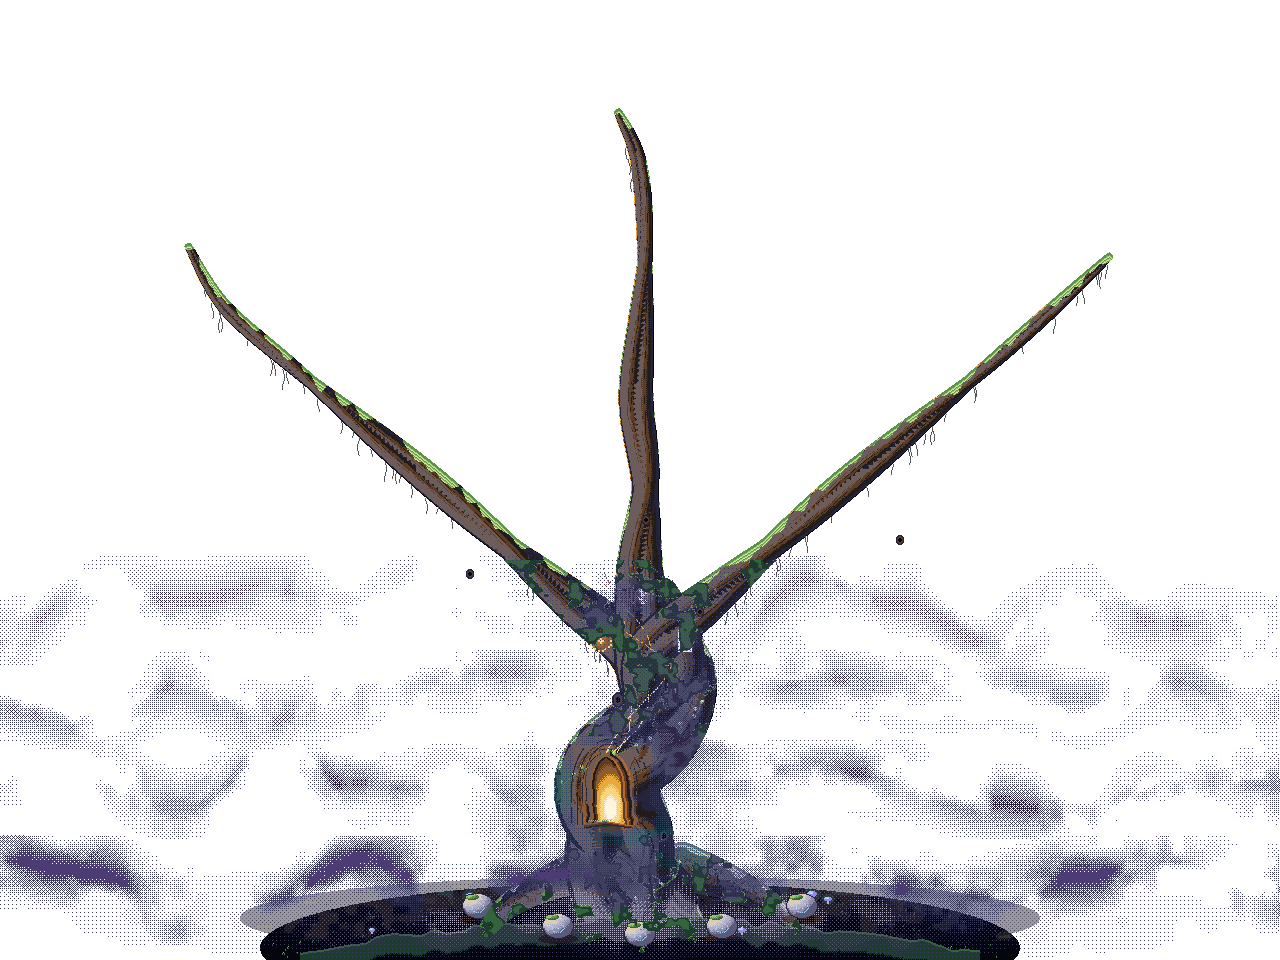
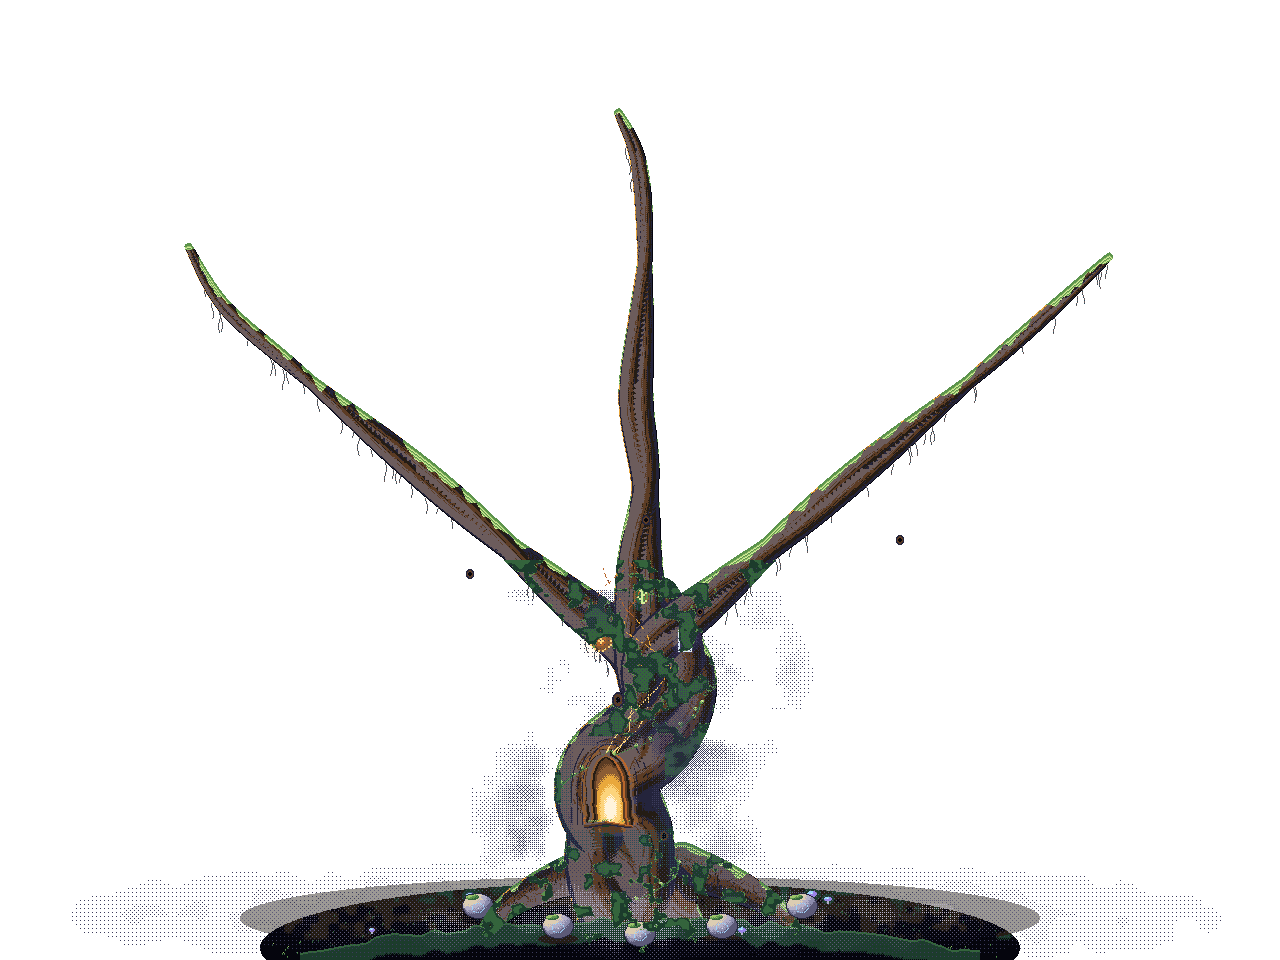
Grove art for the living Grove: drifting mist strips and the Hollow's light point
Three seamless 1280-wide violet mist strips (grove_mist_0..2.png, heights 110/110/120, y 610/715/820, speeds 5/-8/12 art px/s) listed in grove_layout.json 'mists', replacing the four static mist bands baked into grove_tree.png; 'hollow': [608, 792] for the pulsing glow. The crown-underside wisp and the mist on the trunk stay baked.

diff --git a/Project_T/tools/meta_art/grove_gen.html b/Project_T/tools/meta_art/grove_gen.html
@@ -746,7 +746,7 @@ function groveTree() {
     const d = band * clamp((n - .36) * 2.6, 0, 1);
     if (d > 0 && bay(x, y) < d * dens) out.set(x, y, d > .75 ? (y > 850 ? HW.Bruise : HW.Shade) : HW.Dusk);  // muted dream mist, violet only in the thick low cores
   } };
-  wisps(610, 55, .35, 113); wisps(700, 50, .5, 114); wisps(790, 50, .7, 111); wisps(890, 55, 1.1, 112);  // thicker toward the ground
+  // The drifting mist bands are separate strips now (groveMistStrip, animated by GroveTreeView).
   // Mist curling across the trunk itself (a little denser than the haze round it), the Hollow clear.
   for (let y = 590; y < 900; y++) for (let x = 470; x < 820; x++) {
     if (x > 572 && x < 652 && y > 745 && y < 832) continue;
@@ -1327,6 +1327,28 @@ function segment(n) {
   }
   return { frames, box, W, H };
 }
+
+// ---- drifting mist strips (grove_layout.json "mists"; GroveTreeView tiles and scrolls them) ----
+// Seamless horizontally over the 1280 px width (the noise wraps), soft top and bottom. Muted violet
+// dream mist: Dusk, Shade in the thicker parts, Bruise only in the densest cores near the ground.
+const GROVE_MISTS = [
+  { file: "grove_mist_0.png", y: 610, h: 110, dens: .45, speed: 5, seed: 141 },
+  { file: "grove_mist_1.png", y: 715, h: 110, dens: .65, speed: -8, seed: 142 },
+  { file: "grove_mist_2.png", y: 820, h: 120, dens: .95, speed: 12, seed: 143 },
+];
+function groveMistStrip(m) {
+  const out = new Img(GW, m.h), deep = m.dens > .8;
+  for (let y = 0; y < m.h; y++) for (let x = 0; x < GW; x++) {
+    const wob = (pnoise(x, 0, 80, m.seed + 2, 16) - .5) * m.h * .5;
+    const band = clamp(1 - Math.abs(y - m.h / 2 - wob) / (m.h * .42), 0, 1) ** 1.5;
+    const n = pnoise(x, y, 40, m.seed, 32) * .75 + pnoise(x, y, 16, m.seed + 1, 80) * .25;
+    const d = band * clamp((n - .36) * 2.6, 0, 1);
+    if (d > 0 && bay(x, y) < d * m.dens) out.set(x, y, d > .75 ? (deep ? HW.Bruise : HW.Shade) : d > .45 ? HW.Shade : HW.Dusk);
+  }
+  return out;
+}
+// The centre of the Hollow's light (GroveTreeView pulses a warm glow here).
+const HOLLOW_LIGHT = [608, 792];
 
 // ---- flowers and buds ----
 // A petal from (cx, cy) along angle a: an ellipse from the centre out to `len`, lit on its upper side.
@@ -1909,7 +1931,7 @@ emitImg("grove/grove_sky.png", sky);
 emitImg("grove/grove_tree.png", tree);
 spreadNodes(canopies[0]);
 FRUIT_SPOTS.forEach(s => { s[1] = maskBottom(s[0]) - 8; });
-const layout = { size: [GW, GH], nodes: [], fruit_spots: FRUIT_SPOTS, loadout_stones: [...LOADOUT_STONES, SECRET_STONE], moon: MOON, node_cell: 32, legendary_cell: 48, fruit_cell: 48 };
+const layout = { size: [GW, GH], nodes: [], fruit_spots: FRUIT_SPOTS, loadout_stones: [...LOADOUT_STONES, SECRET_STONE], moon: MOON, hollow: HOLLOW_LIGHT, mists: GROVE_MISTS.map(({ file, y, speed }) => ({ file, y, speed })), node_cell: 32, legendary_cell: 48, fruit_cell: 48 };
 const segs = {};
 for (const n of NODES) {
   const s = segment(n); segs[n.id] = s;
@@ -1917,6 +1939,7 @@ for (const n of NODES) {
   layout.nodes.push({ id: n.id, section: n.section, name: n.name, pos: [n.x, n.y], parent: n.parent || null, from: n.from || null,
     levels: n.lv || 1, start: !!n.start, legendary: !!n.legendary, ...(MEMORY_WARDENS.includes(n.id) ? { memory_row: MEMORY_WARDENS.indexOf(n.id) } : {}), branch: { offset: [s.box[0], s.box[1]], frame_size: [s.W, s.H], frames: 5 } });
 }
+GROVE_MISTS.forEach(m => emitImg("grove/" + m.file, groveMistStrip(m)));
 emitText("grove/grove_layout.json", JSON.stringify(layout, null, 1));
 emitImg("grove/grove_nodes.png", stack(["perks", "families", "cards"].map(s => nodeRow(s, false))));
 emitImg("grove/grove_legendary.png", nodeRow("cards", true));
@@ -1981,7 +2004,7 @@ emitImg("icons/card_bundle_icons.png", strip(CARD_ORDER.map(cardIcon)));
 for (let i = 0; i < 10; i++) emitImg("memories/memory_" + String(i + 1).padStart(2, "0") + ".png", memory(i));
 
 // Preview: the tree part-grown, with every node state on show.
-const prev = new Img(GW, GH); prev.put(sky); prev.put(tree); prev.put(canopies[2]);
+const prev = new Img(GW, GH); prev.put(sky); prev.put(tree); prev.put(canopies[2]); GROVE_MISTS.forEach(m => prev.put(snapToPalette(groveMistStrip(m)), 0, m.y));
 const owned = new Set(); NODES.forEach((n, i) => { if (n.start || (i % 3 !== 2 && n.depth < 3)) owned.add(n.id); });
 const sheetCell = (sec, big, col) => nodeSprite(sec, col === 0 ? "locked" : col < 5 ? "afford" : col < 9 ? "open" : "bloom", col === 0 ? 0 : col < 5 ? col - 1 : col < 9 ? col - 5 : col - 9, big);
 for (const n of NODES) { const s = segs[n.id]; prev.put(s.frames[owned.has(n.id) ? 4 : 0], s.box[0], s.box[1]); }

diff --git a/Project_T/tools/meta_art/grove_export.js b/Project_T/tools/meta_art/grove_export.js
@@ -64,7 +64,7 @@ emitImg("grove/grove_sky.png", sky);
 emitImg("grove/grove_tree.png", tree);
 spreadNodes(canopies[0]);
 FRUIT_SPOTS.forEach(s => { s[1] = maskBottom(s[0]) - 8; });
-const layout = { size: [GW, GH], nodes: [], fruit_spots: FRUIT_SPOTS, loadout_stones: [...LOADOUT_STONES, SECRET_STONE], moon: MOON, node_cell: 32, legendary_cell: 48, fruit_cell: 48 };
+const layout = { size: [GW, GH], nodes: [], fruit_spots: FRUIT_SPOTS, loadout_stones: [...LOADOUT_STONES, SECRET_STONE], moon: MOON, hollow: HOLLOW_LIGHT, mists: GROVE_MISTS.map(({ file, y, speed }) => ({ file, y, speed })), node_cell: 32, legendary_cell: 48, fruit_cell: 48 };
 const segs = {};
 for (const n of NODES) {
   const s = segment(n); segs[n.id] = s;
@@ -72,6 +72,7 @@ for (const n of NODES) {
   layout.nodes.push({ id: n.id, section: n.section, name: n.name, pos: [n.x, n.y], parent: n.parent || null, from: n.from || null,
     levels: n.lv || 1, start: !!n.start, legendary: !!n.legendary, ...(MEMORY_WARDENS.includes(n.id) ? { memory_row: MEMORY_WARDENS.indexOf(n.id) } : {}), branch: { offset: [s.box[0], s.box[1]], frame_size: [s.W, s.H], frames: 5 } });
 }
+GROVE_MISTS.forEach(m => emitImg("grove/" + m.file, groveMistStrip(m)));
 emitText("grove/grove_layout.json", JSON.stringify(layout, null, 1));
 emitImg("grove/grove_nodes.png", stack(["perks", "families", "cards"].map(s => nodeRow(s, false))));
 emitImg("grove/grove_legendary.png", nodeRow("cards", true));
@@ -136,7 +137,7 @@ emitImg("icons/card_bundle_icons.png", strip(CARD_ORDER.map(cardIcon)));
 for (let i = 0; i < 10; i++) emitImg("memories/memory_" + String(i + 1).padStart(2, "0") + ".png", memory(i));
 
 // Preview: the tree part-grown, with every node state on show.
-const prev = new Img(GW, GH); prev.put(sky); prev.put(tree); prev.put(canopies[2]);
+const prev = new Img(GW, GH); prev.put(sky); prev.put(tree); prev.put(canopies[2]); GROVE_MISTS.forEach(m => prev.put(snapToPalette(groveMistStrip(m)), 0, m.y));
 const owned = new Set(); NODES.forEach((n, i) => { if (n.start || (i % 3 !== 2 && n.depth < 3)) owned.add(n.id); });
 const sheetCell = (sec, big, col) => nodeSprite(sec, col === 0 ? "locked" : col < 5 ? "afford" : col < 9 ? "open" : "bloom", col === 0 ? 0 : col < 5 ? col - 1 : col < 9 ? col - 5 : col - 9, big);
 for (const n of NODES) { const s = segs[n.id]; prev.put(s.frames[owned.has(n.id) ? 4 : 0], s.box[0], s.box[1]); }

diff --git a/Project_T/tools/meta_art/grove_tree.js b/Project_T/tools/meta_art/grove_tree.js
@@ -287,7 +287,7 @@ function groveTree() {
     const d = band * clamp((n - .36) * 2.6, 0, 1);
     if (d > 0 && bay(x, y) < d * dens) out.set(x, y, d > .75 ? (y > 850 ? HW.Bruise : HW.Shade) : HW.Dusk);  // muted dream mist, violet only in the thick low cores
   } };
-  wisps(610, 55, .35, 113); wisps(700, 50, .5, 114); wisps(790, 50, .7, 111); wisps(890, 55, 1.1, 112);  // thicker toward the ground
+  // The drifting mist bands are separate strips now (groveMistStrip, animated by GroveTreeView).
   // Mist curling across the trunk itself (a little denser than the haze round it), the Hollow clear.
   for (let y = 590; y < 900; y++) for (let x = 470; x < 820; x++) {
     if (x > 572 && x < 652 && y > 745 && y < 832) continue;
@@ -868,3 +868,25 @@ function segment(n) {
   }
   return { frames, box, W, H };
 }
+
+// ---- drifting mist strips (grove_layout.json "mists"; GroveTreeView tiles and scrolls them) ----
+// Seamless horizontally over the 1280 px width (the noise wraps), soft top and bottom. Muted violet
+// dream mist: Dusk, Shade in the thicker parts, Bruise only in the densest cores near the ground.
+const GROVE_MISTS = [
+  { file: "grove_mist_0.png", y: 610, h: 110, dens: .45, speed: 5, seed: 141 },
+  { file: "grove_mist_1.png", y: 715, h: 110, dens: .65, speed: -8, seed: 142 },
+  { file: "grove_mist_2.png", y: 820, h: 120, dens: .95, speed: 12, seed: 143 },
+];
+function groveMistStrip(m) {
+  const out = new Img(GW, m.h), deep = m.dens > .8;
+  for (let y = 0; y < m.h; y++) for (let x = 0; x < GW; x++) {
+    const wob = (pnoise(x, 0, 80, m.seed + 2, 16) - .5) * m.h * .5;
+    const band = clamp(1 - Math.abs(y - m.h / 2 - wob) / (m.h * .42), 0, 1) ** 1.5;
+    const n = pnoise(x, y, 40, m.seed, 32) * .75 + pnoise(x, y, 16, m.seed + 1, 80) * .25;
+    const d = band * clamp((n - .36) * 2.6, 0, 1);
+    if (d > 0 && bay(x, y) < d * m.dens) out.set(x, y, d > .75 ? (deep ? HW.Bruise : HW.Shade) : d > .45 ? HW.Shade : HW.Dusk);
+  }
+  return out;
+}
+// The centre of the Hollow's light (GroveTreeView pulses a warm glow here).
+const HOLLOW_LIGHT = [608, 792];
